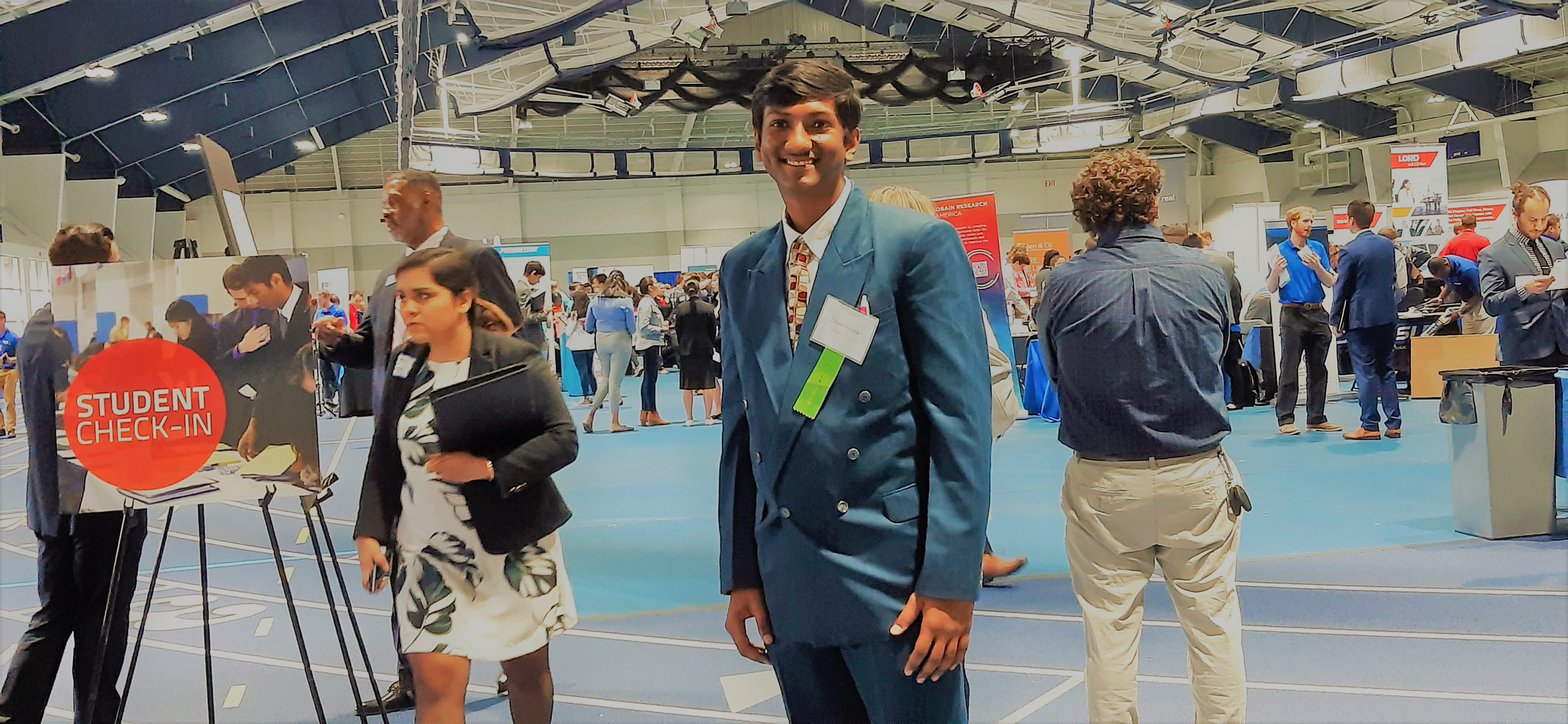
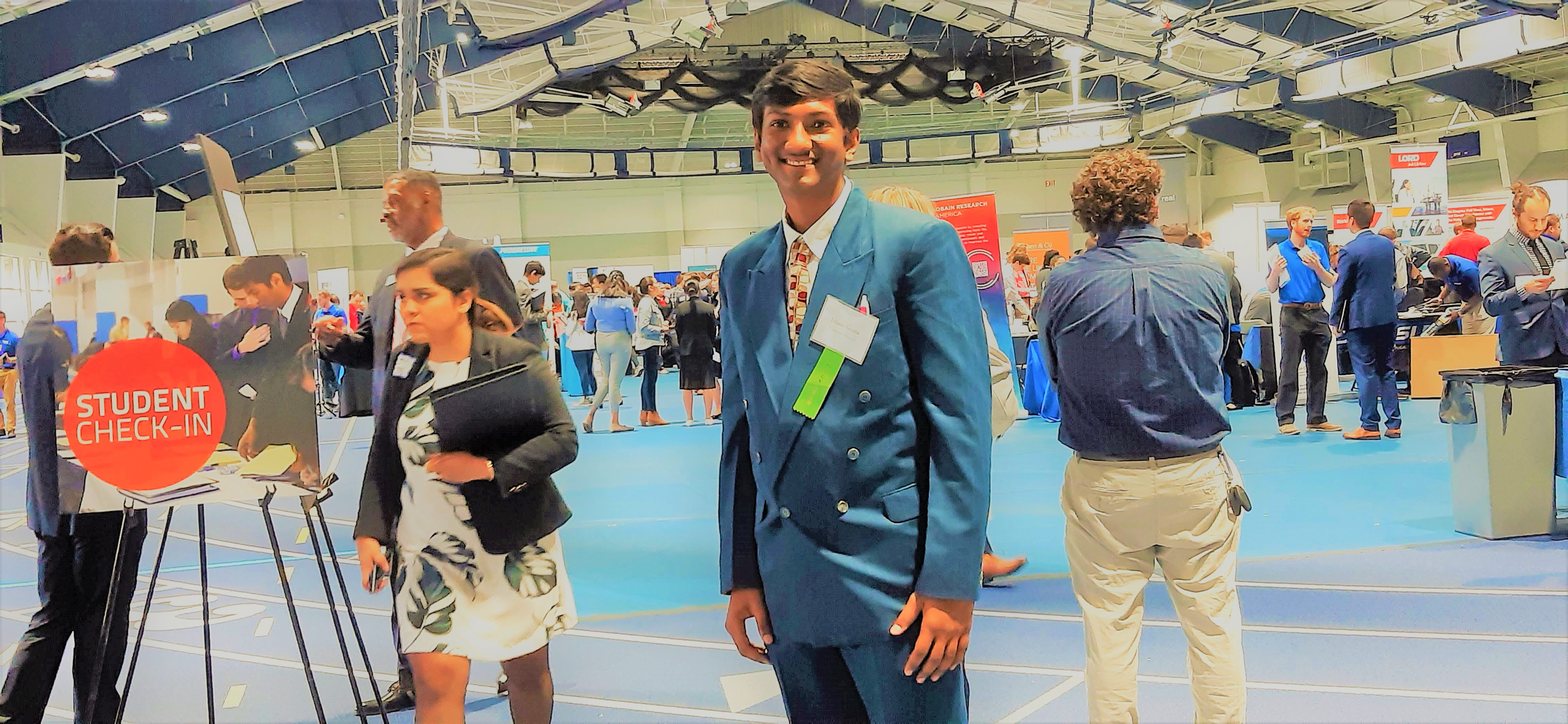
Fourth Commit

diff --git a/index.html b/index.html
@@ -159,7 +159,7 @@
                         <!-- SLIDE 3 -->
                         <li data-index="rs-3" data-transition="slidingoverlayhorizontal" data-slotamount="default" data-easein="default" data-easeout="default" data-masterspeed="default" data-rotate="0"  data-fstransition="fade" data-fsmasterspeed="1500" data-fsslotamount="7" data-saveperformance="off" data-title="Slide Three">
                             <!-- MAIN IMAGE -->
-                            <img src="images/Visa_summer_internship.jpeg"  alt="Consulting" data-bgposition="center 40%" data-bgfit="cover" data-bgrepeat="no-repeat" class="rev-slidebg" data-no-retina>
+                            <img src="images/ishaangupta_PMI.jpg" alt="Consulting" data-bgposition="center 40%" data-bgfit="cover" data-bgrepeat="no-repeat" class="rev-slidebg" data-no-retina>
                             <!-- LAYERS -->
                             <!-- LAYER NR. 1 -->
                             <div class="tp-caption tp-resizeme text-black-333 rs-parallaxlevel-0"
